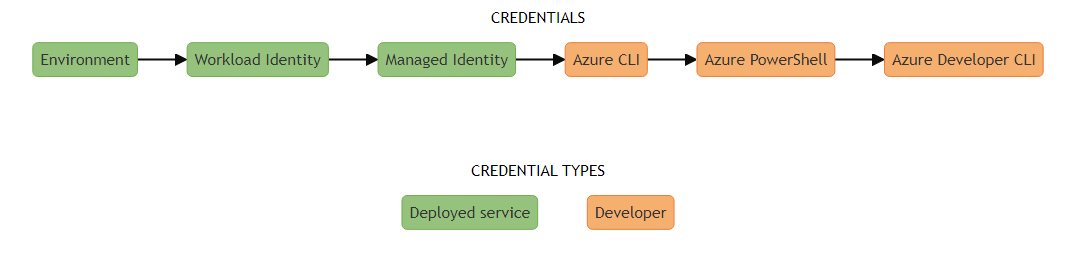
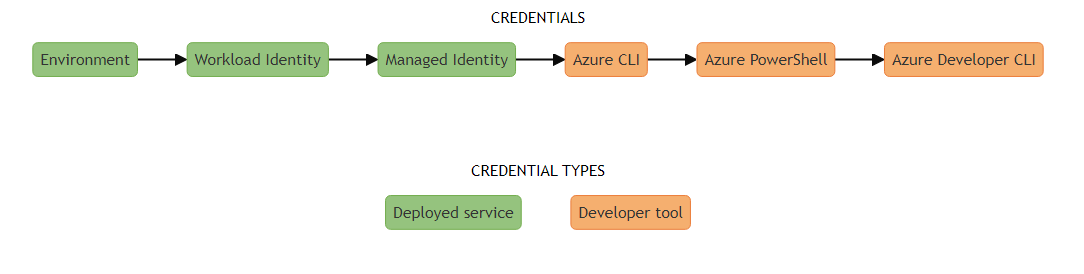
Update mermaid.js diagrams for C++ and JS

Changed region(s): [[0.3349, 0.7007, 0.6393, 0.8467]]

diff --git a/articles/cpp/sdk/includes/mermaidjs/default-azure-credential-auth-flow.md b/articles/cpp/sdk/includes/mermaidjs/default-azure-credential-auth-flow.md
@@ -1,6 +1,6 @@
 ---
 ms.topic: include
-ms.date: 04/03/2025
+ms.date: 05/29/2025
 ---
 
 ```mermaid
@@ -23,7 +23,7 @@ ms.date: 04/03/2025
 flowchart LR;
     subgraph CREDENTIAL TYPES;
         direction LR;
-        Deployed(Deployed service):::deployed ~~~ Developer(Developer):::developer;
+        Deployed(Deployed service):::deployed ~~~ Developer(Developer tool):::developer;
     end;
 
     subgraph CREDENTIALS;

diff --git a/articles/javascript/sdk/includes/mermaidjs/default-azure-credential-auth-flow.md b/articles/javascript/sdk/includes/mermaidjs/default-azure-credential-auth-flow.md
@@ -1,6 +1,6 @@
 ---
 ms.topic: include
-ms.date: 12/04/2024
+ms.date: 05/29/2025
 ---
 
 ```mermaid
@@ -25,7 +25,7 @@ ms.date: 12/04/2024
 flowchart LR;
     subgraph CREDENTIAL TYPES;
         direction LR;
-        Deployed(Deployed service):::deployed ~~~ Developer(Developer):::developer;
+        Deployed(Deployed service):::deployed ~~~ Developer(Developer tool):::developer;
     end;
 
     subgraph CREDENTIALS;
